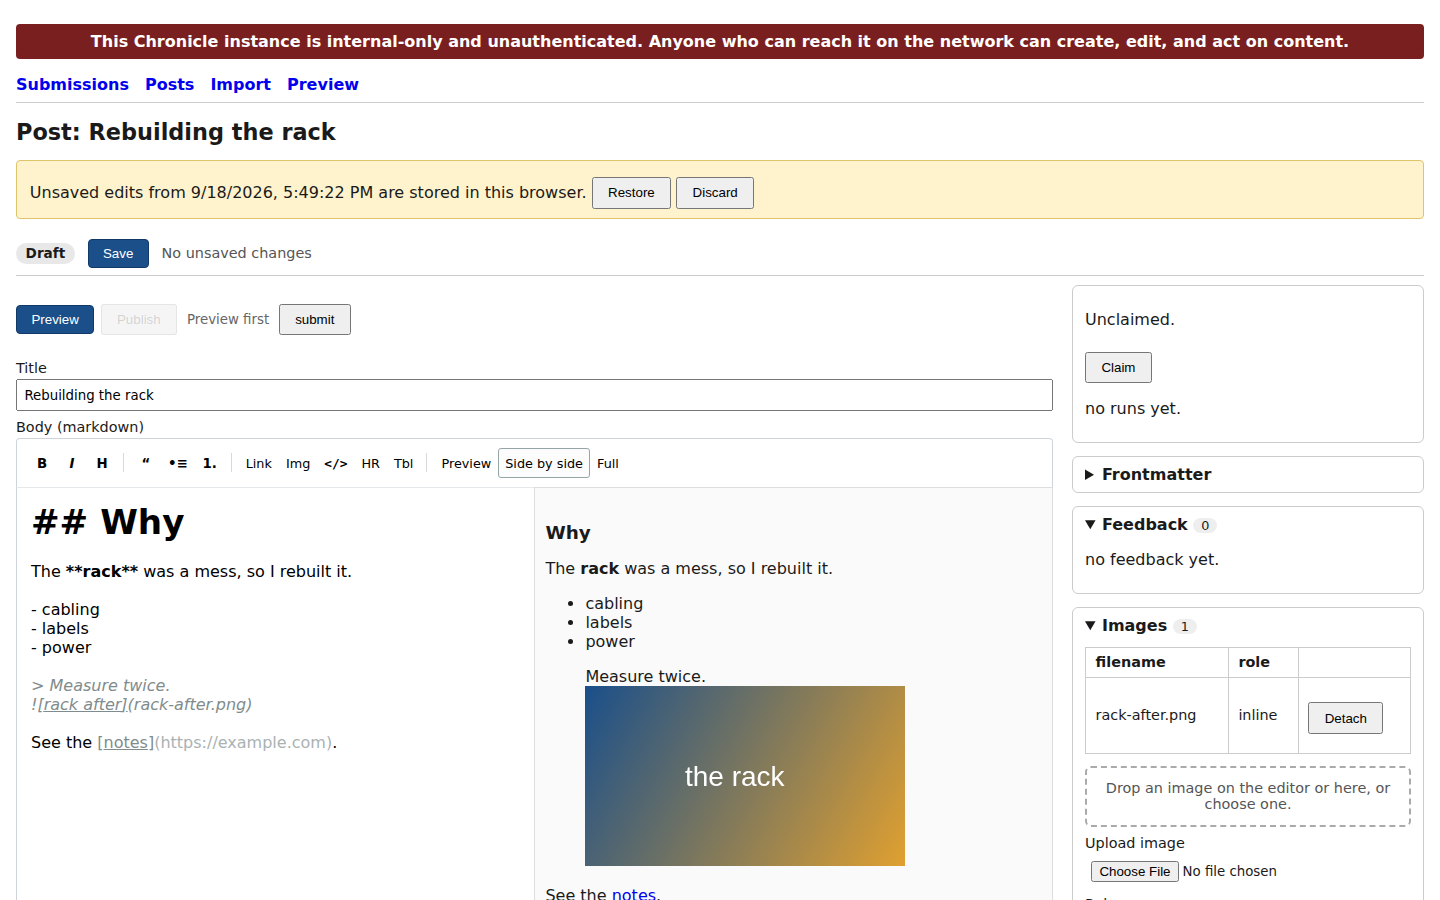
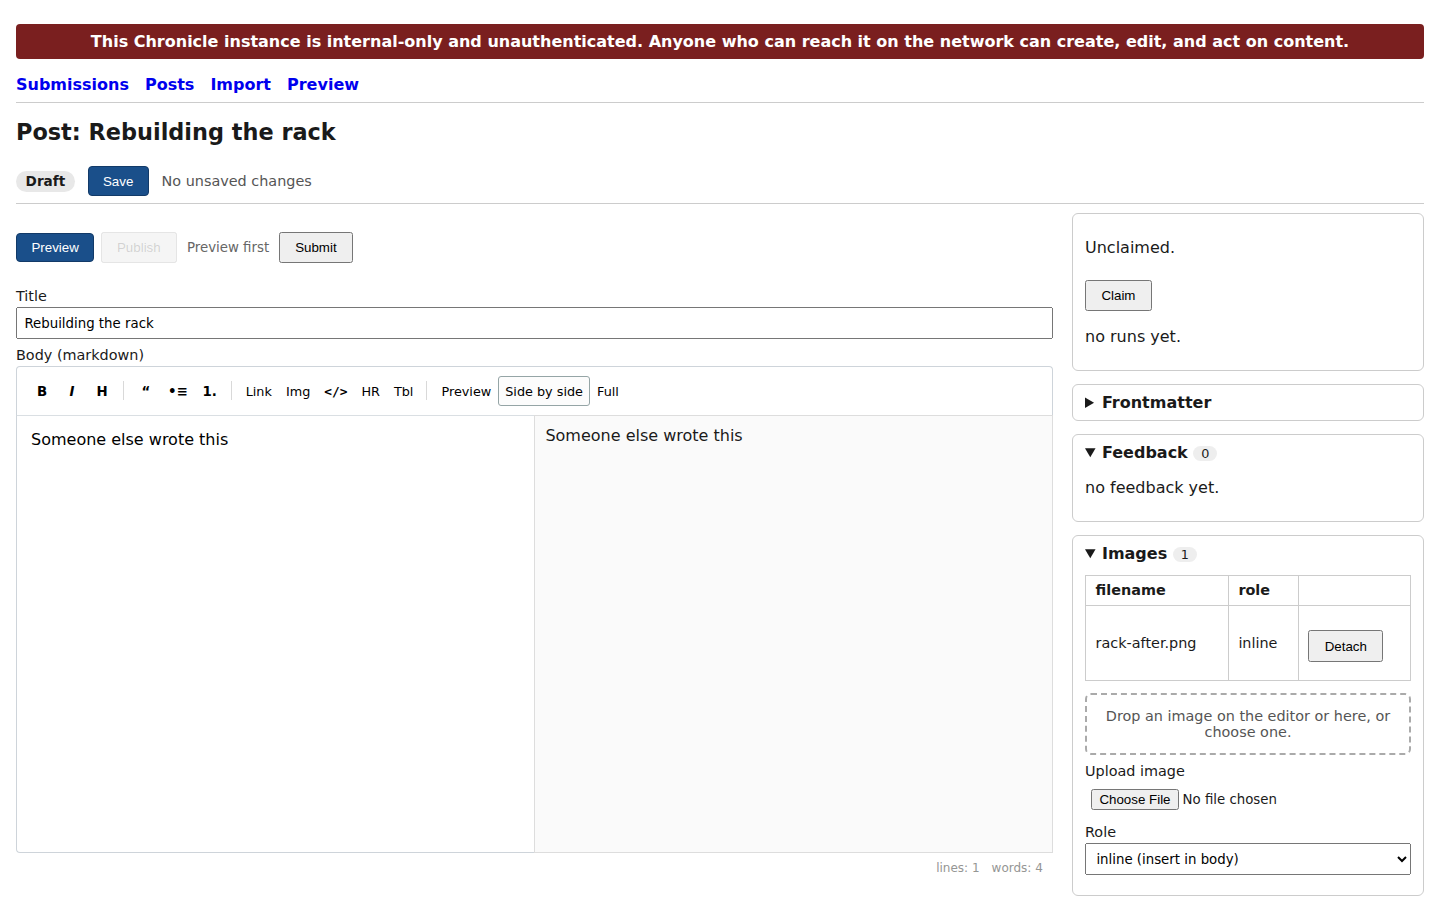
Editor: an unanswered backup offer is never cleared by leaving the page

diff --git a/chronicle/api/static/editor.js b/chronicle/api/static/editor.js
@@ -50,6 +50,18 @@ function backupVerdict(backup, server, serverVersion) {
   };
 }
 
+// What a backup write should do right now. While an earlier backup is still
+// on offer (the banner is showing and the visitor has chosen neither Restore
+// nor Discard) the stored copy is the only copy of their work, so nothing
+// may overwrite or clear it: leaving the page unanswered used to clear it,
+// because the editor then matched the server.
+function backupWriteAction(now, saved, offerPending) {
+  if (offerPending) {
+    return "skip";
+  }
+  return sameState(now, saved) ? "clear" : "write";
+}
+
 function backupMessage(verdict, whenText) {
   var text = "Unsaved edits from " + whenText + " are stored in this browser.";
   if (verdict.serverMoved) {
@@ -294,6 +306,10 @@ function saveStateText(state, detail) {
     }
   }
 
+  // True while a stored backup is on offer and unanswered (see
+  // backupWriteAction).
+  var offerPending = false;
+
   function clearBackup() {
     try {
       window.localStorage.removeItem(backupKey);
@@ -304,7 +320,11 @@ function saveStateText(state, detail) {
 
   function writeBackup() {
     var now = currentState();
-    if (sameState(now, saved)) {
+    var action = backupWriteAction(now, saved, offerPending);
+    if (action === "skip") {
+      return;
+    }
+    if (action === "clear") {
       clearBackup();
       return;
     }
@@ -338,6 +358,7 @@ function saveStateText(state, detail) {
     }
     bannerText.textContent = backupMessage(verdict, when);
     banner.hidden = false;
+    offerPending = true;
   }
 
   function hideBanner() {
@@ -353,6 +374,7 @@ function saveStateText(state, detail) {
       if (!pending) {
         return;
       }
+      offerPending = false;
       setBody(pending.body);
       writeFields(pending.fields);
       // Restoring puts the text back at the version it was written against,
@@ -367,6 +389,7 @@ function saveStateText(state, detail) {
   }
   if (discardBtn) {
     discardBtn.addEventListener("click", function () {
+      offerPending = false;
       clearBackup();
       pending = null;
       hideBanner();
@@ -461,7 +484,9 @@ function saveStateText(state, detail) {
           refreshRegions(doc);
           saved = sent;
           if (sameState(currentState(), saved)) {
-            clearBackup();
+            if (!offerPending) {
+              clearBackup();
+            }
             setState("saved", timeText());
           } else {
             writeBackup();
@@ -711,6 +736,7 @@ if (typeof module !== "undefined" && module.exports) {
   module.exports = {
     sameState: sameState,
     backupVerdict: backupVerdict,
+    backupWriteAction: backupWriteAction,
     backupMessage: backupMessage,
     uploadOutcome: uploadOutcome,
     lookupImageSrc: lookupImageSrc,
